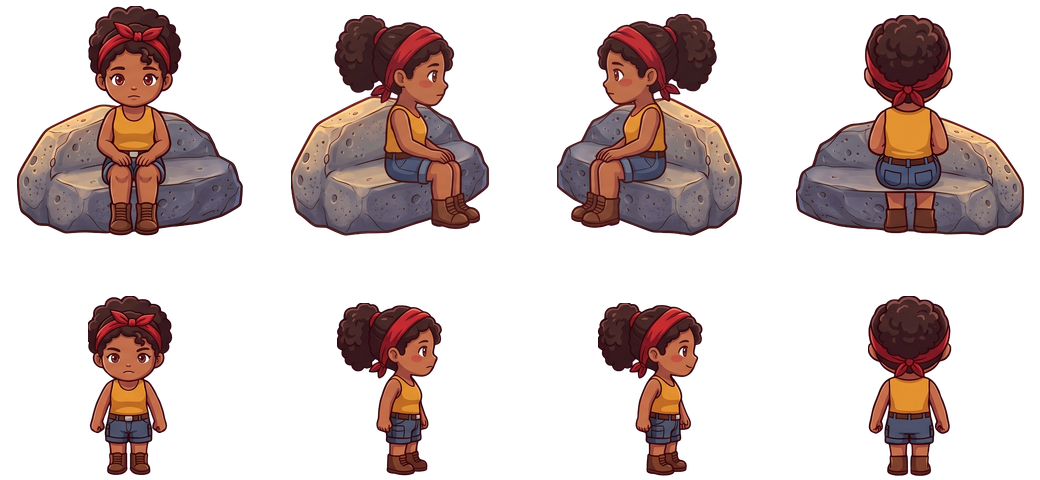
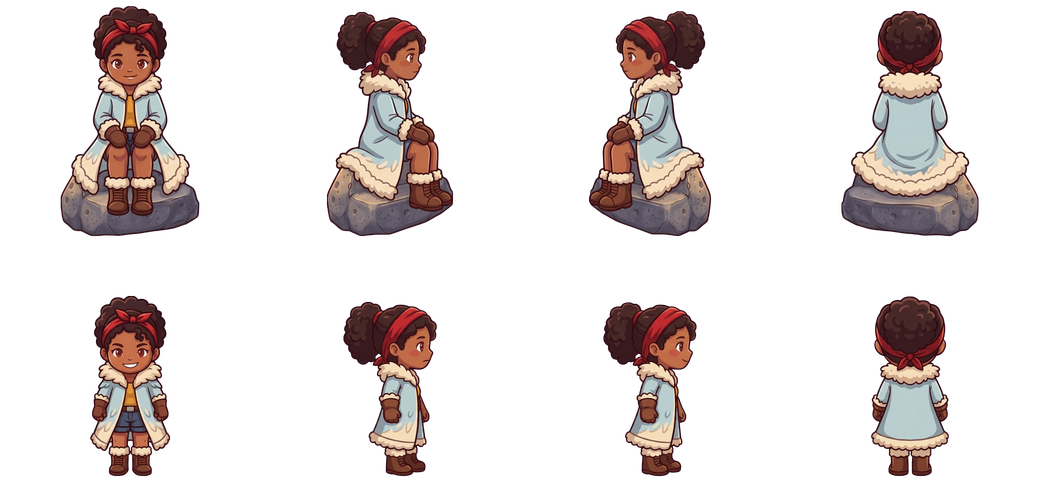
feat(images): finitions — Hélène sans fauteuil, Firmin sans masque, Maïa sur la pierre (manteau de Joss), Léonce au port

diff --git a/Godot/docs/direction-artistique.md b/Godot/docs/direction-artistique.md
@@ -130,7 +130,11 @@ chaque nouveau repli ; retirer la ligne une fois refait.
 | Chapitre 9, bloc du Souverain : la forme dedans | `props/bloc_souverain*.png` | l'animal piégé a des pointes d'ankylosaure sur le dos (plus que les plaques lisses de l'espèce) | Redemander avec `souverain.png` en référence |
 | Chapitre 9, `isaure_helene` | `props/isaure_helene.png` | dessinée en gros plan (têtes plus grandes que les sprites), Isaure aux cheveux plus gris que sur sa planche | À refaire en chibi si elle jure avec les sprites en jeu |
 | Chapitre 9, Hélène assise : profils | `characters/helene_assise.png`, `helene_sol.png` | profil droit = profil gauche retourné (fauteuil et assise au sol) ; rangée « debout soutenue » : le bras tendu est retourné avec le profil | Dessiner les deux profils si le bras tendu se voit mal |
-| Chapitre 9, `helene.png` : ordre des rangées | `characters/helene.png` | éditée depuis `bertille.png`, qui a la rangée du dos EN PREMIER (ordre du jeu : face, gauche, droite, dos) : rangées remises dans l'ordre du jeu après découpe | Vérifier `bertille.png` (rangées peut-être inversées) |
+| Chapitre 9, `helene.png` : ordre des rangées | `characters/helene.png` | éditée depuis `bertille.png`, qui a la rangée du dos EN PREMIER (ordre du jeu : face, gauche, droite, dos) : rangées remises dans l'ordre du jeu après découpe | ~~Vérifier `bertille.png`~~ fait le 19/10 : `helene.png` est correcte (face, gauche, droite, dos ; 4×4 de 133×184, personnage de 176 px comme roc/bertille/maia), rien à corriger |
+| Finitions ch. 8-9 (19/10) : Hélène sans fauteuil | `characters/helene_assise_sans_fauteuil.png` (960×368, 2×4 cases de 240×184 ; originale `helene_assise.png` intacte) | nano-banana, rangée 1 refaite (face, gauche, dos ; droite = gauche retournée) ; rangée 2 (debout) copiée | De dos, la vue ressemble à une femme debout (jupe visible, pas de siège) : redemander avec les genoux en avant si on la voit mal sur le fauteuil de Roc |
+| Finitions ch. 8-9 : Firmin sans masque | `characters/firmin_sans_masque.png` (400×736, 4×4 de 100×184 comme `sbire.png`, 4 pas par rangée) | nano-banana, depuis `sbire.png` : capuche baissée, cheveux roux-brun, barbe de trois jours, sans pioche ni masque ; dos refait (capuche baissée) | Rien ; à brancher dans `actors/outfits.gd` / `apex_decor.gd` (`FIRMIN`) |
+| Finitions ch. 8-9 : Maïa sur la pierre, manteau de `maia_arche` | `characters/maia_pierre.png` (1040×480, 2×4 de 260×240 ; ancienne : `maia_pierre_v1.png`) | nano-banana, deux rangées refaites (assise et debout) avec le manteau bleu pâle à fourrure ; la pierre est redessinée un peu plus petite et plus haute | Si la pierre jure avec le décor, la redemander plus large ; rangée du bas inutilisée |
+| Finitions ch. 8-9 : Léonce au port | `characters/leonce_port.png` (464×736, 4×4 de 116×184 comme `pecheur.png`) | nano-banana, depuis `sbire.png` + visage de `leonce_assis.png` : sans masque ni capuche, filet à flotteurs sur l'avant-bras, navette à la main, cape sombre | Quelques mailles du filet gardent un liseré rose très léger à l'agrandissement |
 
 ## Plaine Volcanique (art, chapitre 8, 17/10)
 
